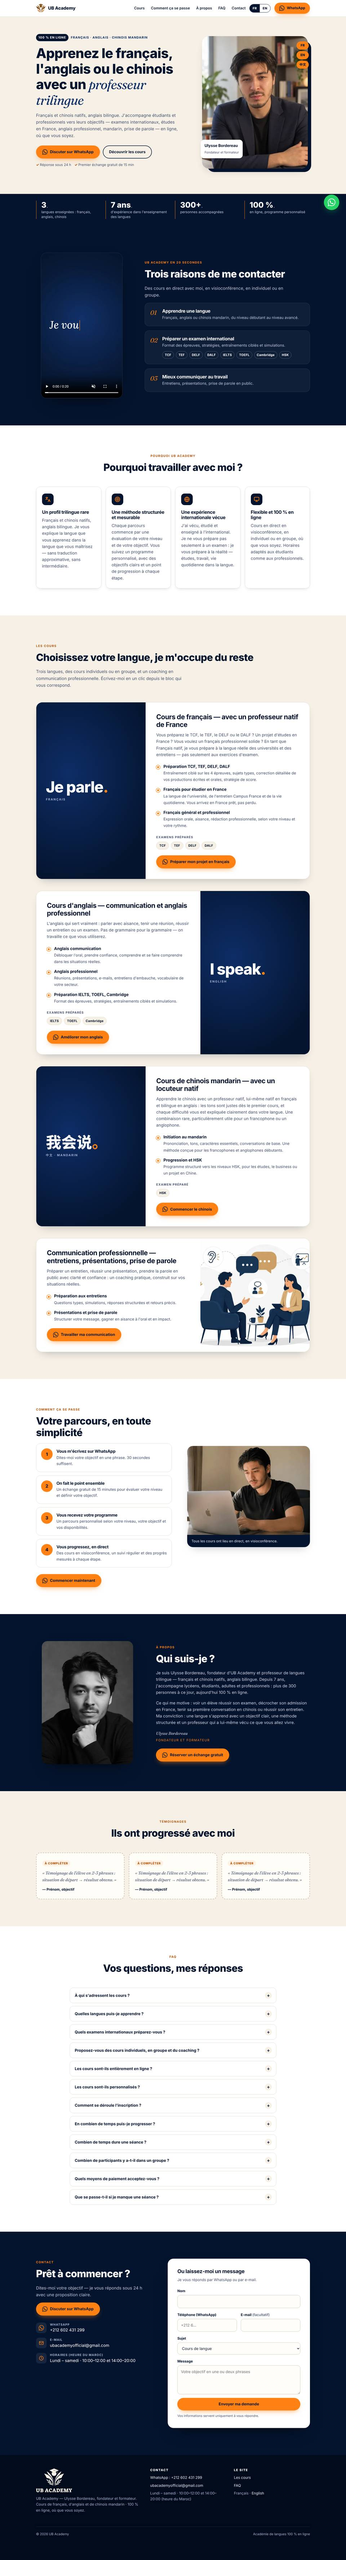
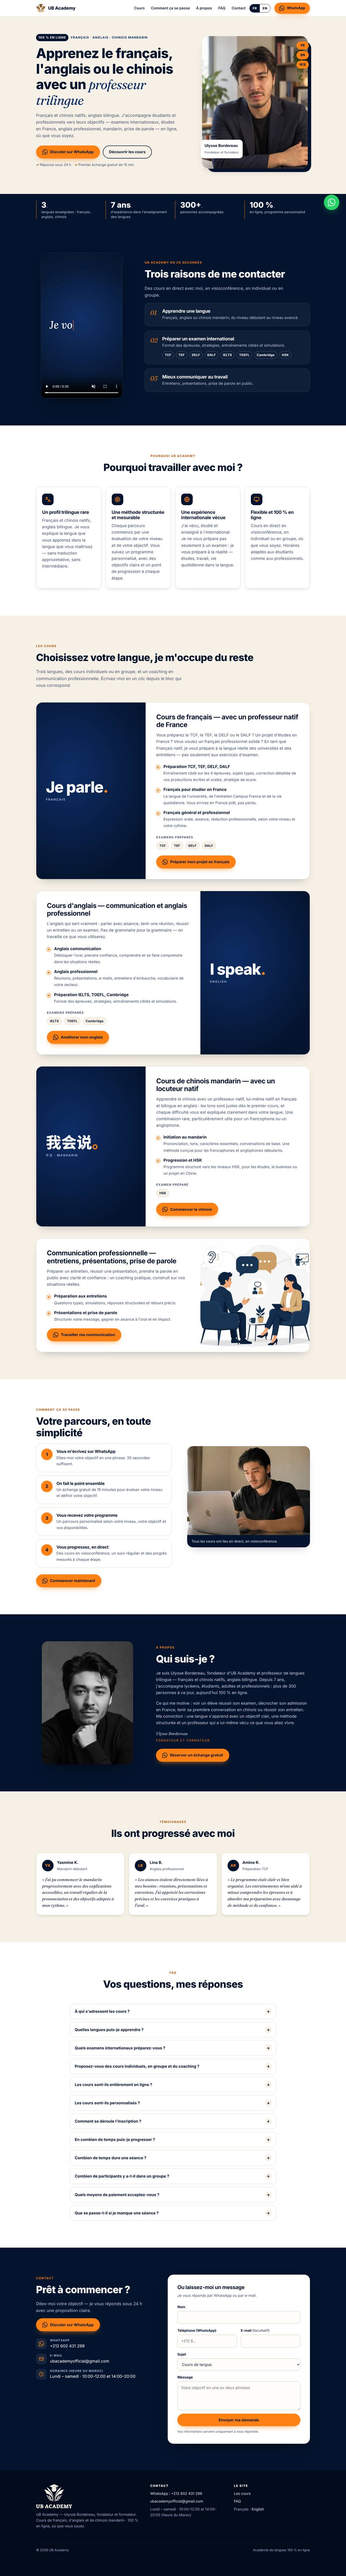
Publie les 3 témoignages confirmés par Ulysse (FR + traduction EN)
- Yasmine K. (mandarin débutant), Lina B. (anglais professionnel),
  Amine R. (préparation TCF) : textes repris tels quels, accord des
  élèves confirmé par Ulysse ; version EN traduite et signalée comme telle
- Cartes avec initiales (les portraits de l'ancien site ne sont pas les
  élèves) ; ni étoiles ni dates relatives
- Espaces insécables dans les guillemets français
- CLAUDE.md et MODIFIER-LE-SITE.md mis à jour ; captures de revue régénérées

Claude-Session: https://claude.ai/code/session_01UrqMZxDNM37wDz4v3d29ba

diff --git a/index.html b/index.html
@@ -344,10 +344,9 @@
     </section>
 
     <!-- ===================== 9. TÉMOIGNAGES ===================== -->
-    <!-- EMPLACEMENTS À COMPLÉTER : ne publiez que de vrais témoignages, avec l'accord écrit de l'élève.
-         Pour chaque carte : remplacez le texte entre « » par les mots de l'élève,
-         puis « Prénom, objectif » par son prénom et son objectif (ex. « Sara, DELF B2 »),
-         et supprimez la ligne <span class="a-completer">…</span>. -->
+    <!-- TÉMOIGNAGES : avis réels d'élèves, publiés avec leur accord (confirmé par Ulysse).
+         Pour modifier un avis : changez le texte entre « », le prénom et l'objectif.
+         Les lettres dans le rond (ex. YK) sont les initiales de l'élève. -->
     <section class="section section--creme" aria-labelledby="titre-temoignages">
       <div class="conteneur">
         <div class="entete-section entete-section--centre">
@@ -355,20 +354,26 @@
           <h2 id="titre-temoignages">Ils ont progressé avec moi</h2>
         </div>
         <div class="temoignages">
-          <figure class="temoignage">
-            <span class="a-completer">À compléter</span>
-            <blockquote>« Témoignage de l'élève en 2-3 phrases : situation de départ → résultat obtenu. »</blockquote>
-            <figcaption>— Prénom, objectif</figcaption>
+          <figure class="temoignage revele">
+            <figcaption class="temoignage__auteur">
+              <span class="temoignage__initiales" aria-hidden="true">YK</span>
+              <span><strong>Yasmine K.</strong><span>Mandarin débutant</span></span>
+            </figcaption>
+            <blockquote><p>«&nbsp;J'ai pu commencer le mandarin progressivement avec des explications accessibles, un travail régulier de la prononciation et des objectifs adaptés à mon rythme.&nbsp;»</p></blockquote>
           </figure>
-          <figure class="temoignage">
-            <span class="a-completer">À compléter</span>
-            <blockquote>« Témoignage de l'élève en 2-3 phrases : situation de départ → résultat obtenu. »</blockquote>
-            <figcaption>— Prénom, objectif</figcaption>
+          <figure class="temoignage revele">
+            <figcaption class="temoignage__auteur">
+              <span class="temoignage__initiales" aria-hidden="true">LB</span>
+              <span><strong>Lina B.</strong><span>Anglais professionnel</span></span>
+            </figcaption>
+            <blockquote><p>«&nbsp;Les séances étaient directement liées à mes besoins : réunions, présentations et entretiens. J'ai apprécié les corrections précises et les exercices pratiques à l'oral.&nbsp;»</p></blockquote>
           </figure>
-          <figure class="temoignage">
-            <span class="a-completer">À compléter</span>
-            <blockquote>« Témoignage de l'élève en 2-3 phrases : situation de départ → résultat obtenu. »</blockquote>
-            <figcaption>— Prénom, objectif</figcaption>
+          <figure class="temoignage revele">
+            <figcaption class="temoignage__auteur">
+              <span class="temoignage__initiales" aria-hidden="true">AR</span>
+              <span><strong>Amine R.</strong><span>Préparation TCF</span></span>
+            </figcaption>
+            <blockquote><p>«&nbsp;Le programme était clair et bien organisé. Les entraînements m'ont aidé à mieux comprendre les épreuves et à aborder ma préparation avec davantage de méthode et de confiance.&nbsp;»</p></blockquote>
           </figure>
         </div>
       </div>

diff --git a/en/index.html b/en/index.html
@@ -344,10 +344,9 @@
     </section>
 
     <!-- ===================== 9. TESTIMONIALS ===================== -->
-    <!-- PLACEHOLDERS TO FILL: publish only real testimonials, with the student's written consent.
-         For each card: replace the text between quotes with the student's words,
-         replace "First name, goal" (e.g. "Sara, IELTS 7"),
-         and delete the <span class="a-completer">…</span> line. -->
+    <!-- TESTIMONIALS: real student reviews, published with their consent (confirmed by Ulysse),
+         translated from French. To edit one: change the quote, the first name and the goal.
+         The letters in the circle (e.g. YK) are the student's initials. -->
     <section class="section section--creme" aria-labelledby="titre-temoignages">
       <div class="conteneur">
         <div class="entete-section entete-section--centre">
@@ -355,22 +354,29 @@
           <h2 id="titre-temoignages">They made real progress</h2>
         </div>
         <div class="temoignages">
-          <figure class="temoignage">
-            <span class="a-completer">To be completed</span>
-            <blockquote>"Student's words, 2-3 sentences: starting point → result."</blockquote>
-            <figcaption>— First name, goal</figcaption>
+          <figure class="temoignage revele">
+            <figcaption class="temoignage__auteur">
+              <span class="temoignage__initiales" aria-hidden="true">YK</span>
+              <span><strong>Yasmine K.</strong><span>Beginner Mandarin</span></span>
+            </figcaption>
+            <blockquote><p>“I was able to start Mandarin step by step, with clear explanations, regular pronunciation practice and goals adapted to my pace.”</p></blockquote>
           </figure>
-          <figure class="temoignage">
-            <span class="a-completer">To be completed</span>
-            <blockquote>"Student's words, 2-3 sentences: starting point → result."</blockquote>
-            <figcaption>— First name, goal</figcaption>
+          <figure class="temoignage revele">
+            <figcaption class="temoignage__auteur">
+              <span class="temoignage__initiales" aria-hidden="true">LB</span>
+              <span><strong>Lina B.</strong><span>Business English</span></span>
+            </figcaption>
+            <blockquote><p>“The sessions were directly linked to my needs: meetings, presentations and interviews. I appreciated the precise corrections and the practical speaking exercises.”</p></blockquote>
           </figure>
-          <figure class="temoignage">
-            <span class="a-completer">To be completed</span>
-            <blockquote>"Student's words, 2-3 sentences: starting point → result."</blockquote>
-            <figcaption>— First name, goal</figcaption>
+          <figure class="temoignage revele">
+            <figcaption class="temoignage__auteur">
+              <span class="temoignage__initiales" aria-hidden="true">AR</span>
+              <span><strong>Amine R.</strong><span>TCF preparation</span></span>
+            </figcaption>
+            <blockquote><p>“The program was clear and well organized. The practice sessions helped me better understand the exam papers and approach my preparation with more method and confidence.”</p></blockquote>
           </figure>
         </div>
+        <p class="temoignages__note">Testimonials translated from French.</p>
       </div>
     </section>
 

diff --git a/assets/css/style.css b/assets/css/style.css
@@ -307,18 +307,24 @@ p { margin: 0 0 1em; }
 .apropos__signature span { display: block; font-family: var(--sans); font-style: normal; font-size: .82rem; letter-spacing: .14em; text-transform: uppercase; color: var(--orange); margin-top: 4px; }
 @media (min-width: 900px) { .apropos { grid-template-columns: .8fr 1.2fr; gap: 72px; } }
 
-/* ---------- Témoignages (emplacements à compléter) ---------- */
+/* ---------- Témoignages ---------- */
 .temoignages { display: grid; gap: 18px; }
 .temoignage {
-  margin: 0; padding: 28px 24px; border-radius: var(--rayon);
-  border: 2px dashed #c9bfa9; background: #fffdf8; color: var(--texte-doux);
+  margin: 0; padding: 26px 24px; border-radius: var(--rayon);
+  background: #fff; border: 1px solid var(--bord); box-shadow: var(--ombre-sm);
+  display: flex; flex-direction: column; gap: 18px;
 }
-.temoignage blockquote { margin: 0 0 14px; font-family: var(--serif); font-style: italic; font-size: 1.1rem; }
-.temoignage figcaption { font-size: .9rem; font-weight: 700; color: var(--marine); }
-.temoignage .a-completer {
-  display: inline-block; margin-bottom: 14px; padding: 3px 10px; border-radius: 999px;
-  background: #fff1e3; color: var(--orange-fonce); font-size: .75rem; font-weight: 800; letter-spacing: .08em; text-transform: uppercase;
+.temoignage__auteur { display: flex; align-items: center; gap: 14px; }
+.temoignage__initiales {
+  flex-shrink: 0; width: 48px; height: 48px; border-radius: 50%;
+  display: grid; place-items: center;
+  background: var(--marine); color: var(--orange); font-weight: 800; font-size: .95rem; letter-spacing: .04em;
 }
+.temoignage__auteur strong { display: block; color: var(--marine); font-size: 1.02rem; }
+.temoignage__auteur strong + span { font-size: .88rem; color: var(--texte-doux); }
+.temoignage blockquote { margin: 0; }
+.temoignage blockquote p { margin: 0; font-family: var(--serif); font-style: italic; font-size: 1.08rem; line-height: 1.55; color: var(--texte); }
+.temoignages__note { margin: 18px 0 0; text-align: center; font-size: .82rem; color: var(--texte-doux); }
 @media (min-width: 820px) { .temoignages { grid-template-columns: repeat(3, 1fr); } }
 
 /* ---------- FAQ ---------- */

diff --git a/MODIFIER-LE-SITE.md b/MODIFIER-LE-SITE.md
@@ -1,5 +1,7 @@
 # Modifier le site UB Academy — mode d'emploi
 
+> **Le plus simple :** demandez à Claude (« change tel texte », « remplace telle photo »). Il fait la modification et vous montre le résultat. Ce guide sert si vous voulez le faire vous-même.
+
 Ce guide explique comment changer vous-même un texte, une photo, la vidéo ou un numéro, **directement sur github.com**, sans rien installer.
 
 Chaque modification enregistrée est mise en ligne automatiquement en 1 à 2 minutes (une fois GitHub Pages activé — voir la dernière partie).
@@ -38,26 +40,29 @@ Les lignes qui commencent par `<!--` et finissent par `-->` sont des **notes inv
 
 ---
 
-## 3. Ajouter un vrai témoignage
+## 3. Modifier ou ajouter un témoignage
 
-Dans `index.html`, cherchez (Ctrl + F) : `À compléter`. Vous trouverez 3 blocs comme celui-ci :
+Dans `index.html`, cherchez (Ctrl + F) le prénom de l'élève, par exemple `Yasmine`. Vous trouverez un bloc comme celui-ci :
 
 ```html
-<figure class="temoignage">
-  <span class="a-completer">À compléter</span>
-  <blockquote>« Témoignage de l'élève en 2-3 phrases : situation de départ → résultat obtenu. »</blockquote>
-  <figcaption>— Prénom, objectif</figcaption>
+<figure class="temoignage revele">
+  <figcaption class="temoignage__auteur">
+    <span class="temoignage__initiales" aria-hidden="true">YK</span>
+    <span><strong>Yasmine K.</strong><span>Mandarin débutant</span></span>
+  </figcaption>
+  <blockquote><p>« J'ai pu commencer le mandarin … »</p></blockquote>
 </figure>
 ```
 
-Pour chaque témoignage réel (avec l'accord écrit de l'élève) :
-1. Remplacez la phrase entre « » par les mots de l'élève.
-2. Remplacez `Prénom, objectif` par, par exemple, `Sara, DELF B2`.
-3. **Supprimez toute la ligne** `<span class="a-completer">À compléter</span>`.
+- Le texte de l'avis est entre « ».
+- `Yasmine K.` est le prénom + l'initiale du nom ; `Mandarin débutant` est l'objectif.
+- `YK` sont les initiales affichées dans le rond.
 
-Faites de même dans `en/index.html` (cherchez `To be completed`), en traduisant le témoignage.
+Pour **ajouter** un avis : copiez un bloc entier (de `<figure` jusqu'à `</figure>`), collez-le juste en dessous, puis changez les textes.
 
-> Ne publiez jamais un témoignage inventé ou non autorisé.
+Faites de même dans `en/index.html`, avec la traduction anglaise.
+
+> Ne publiez jamais un témoignage inventé ou sans l'accord de l'élève.
 
 ---
 

diff --git a/CLAUDE.md b/CLAUDE.md
@@ -34,7 +34,7 @@ Ce dépôt contient le nouveau site vitrine d'UB Academy. Lis ce fichier et TOUT
 - Vidéo : `medias/video/ub-academy-20s-vertical.mp4` (format 9:16). Elle ne doit jamais être déformée ni coupée sur mobile.
 
 ## Interdits
-- Aucun témoignage inventé. Les 3 témoignages de l'ancien site (Yasmine K., Lina B., Amine R.) ne sont PAS à reprendre tant qu'Ulysse ne les a pas confirmés : prévois la section avec des emplacements vides clairement marqués « à compléter ».
+- Aucun témoignage inventé. Les 3 témoignages de l'ancien site (Yasmine K., Lina B., Amine R.) ont été **confirmés par Ulysse comme réels, avec l'accord des élèves** : ils sont publiés tels quels (EN = traduction signalée). Ne pas utiliser les portraits qui les accompagnaient sur l'ancien site (ce ne sont pas les élèves) : initiales uniquement. Pas d'étoiles ni de dates relatives (« il y a 10 mois »).
 - Aucun taux de réussite, garantie, certification, prix ou chiffre inventé.
 - Pas de superlatifs sans preuve (« le meilleur », « révolutionnaire »).
 - Ne rien publier (GitHub Pages ou autre) avant qu'Ulysse ait vu le site et donné son accord explicite.
